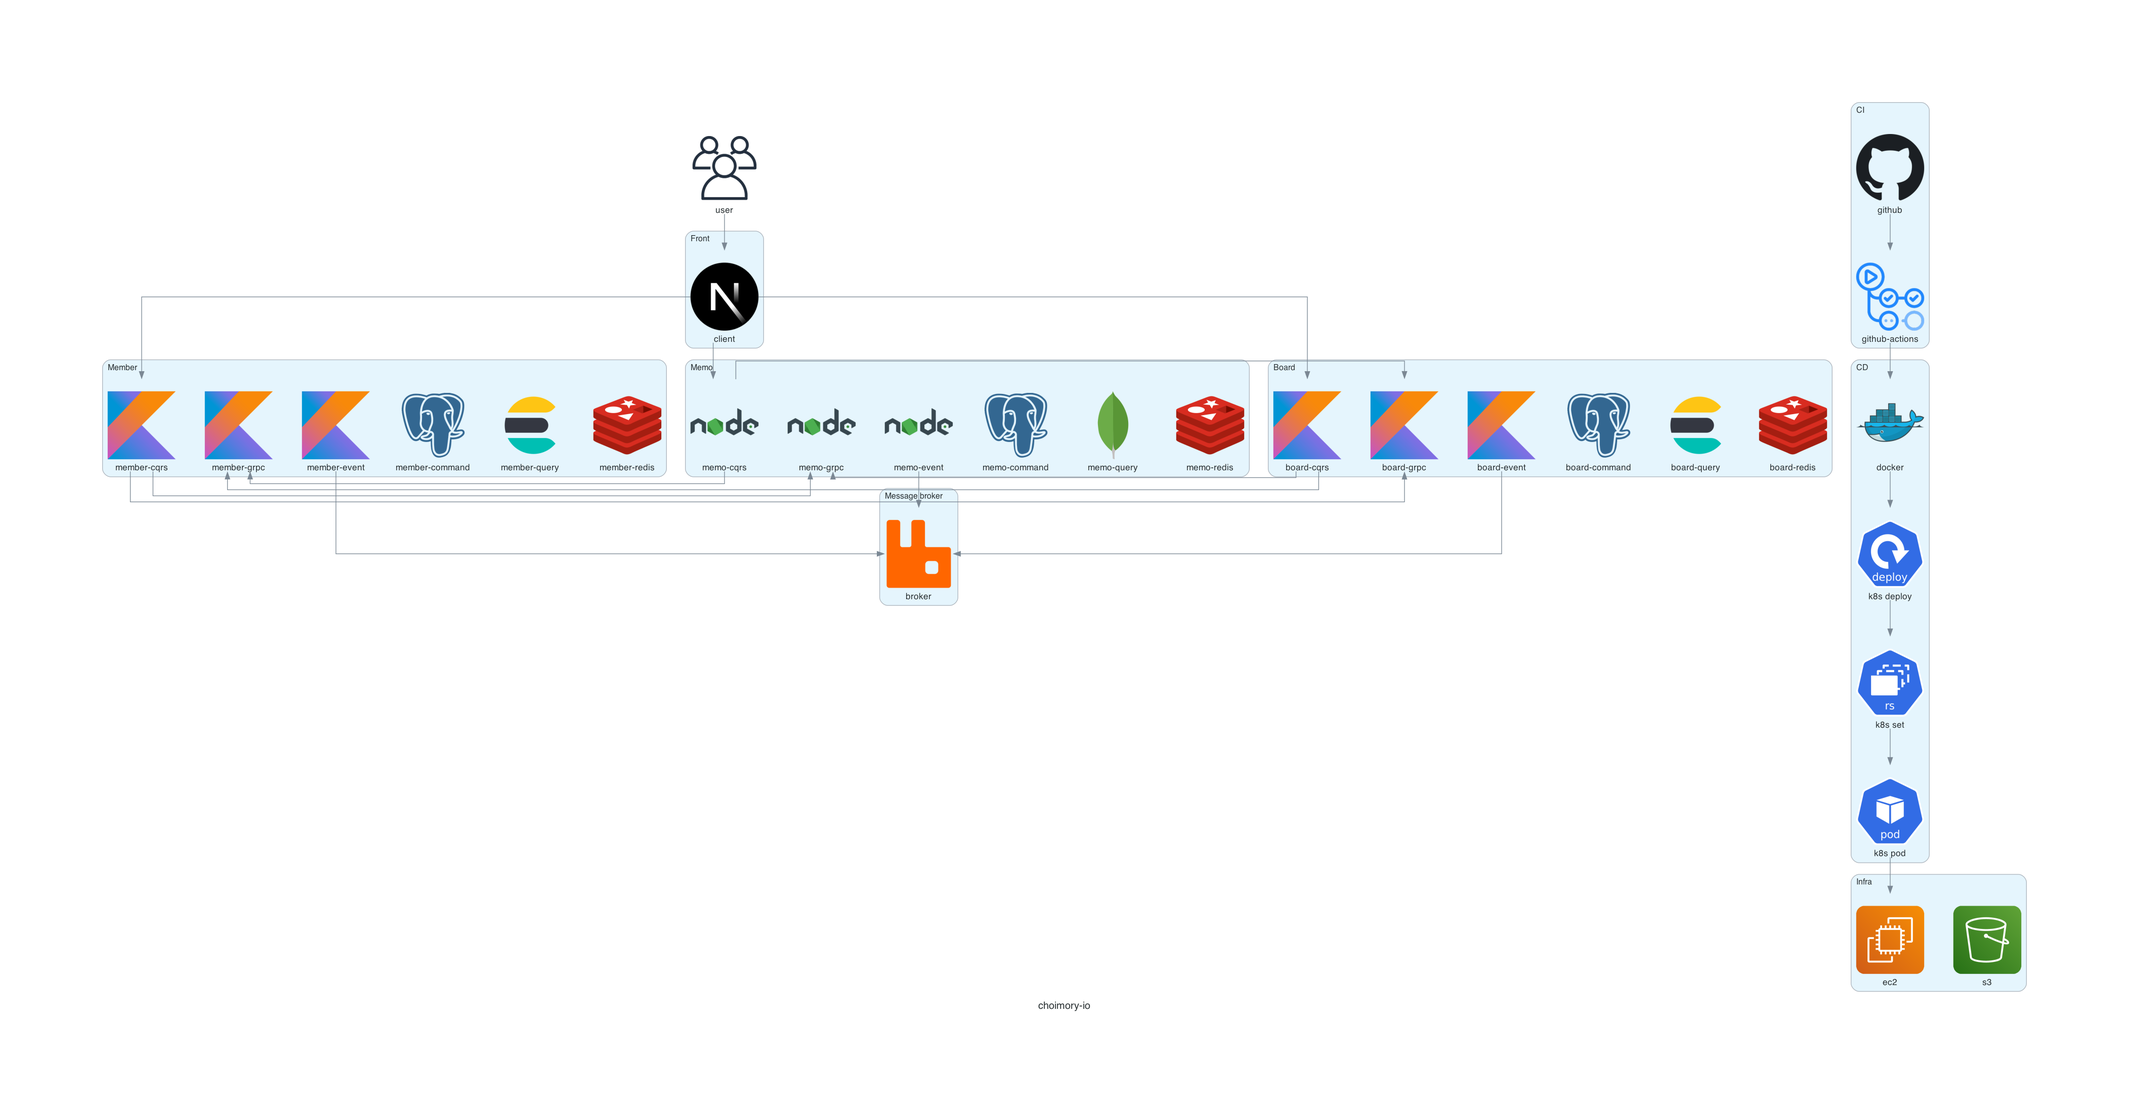
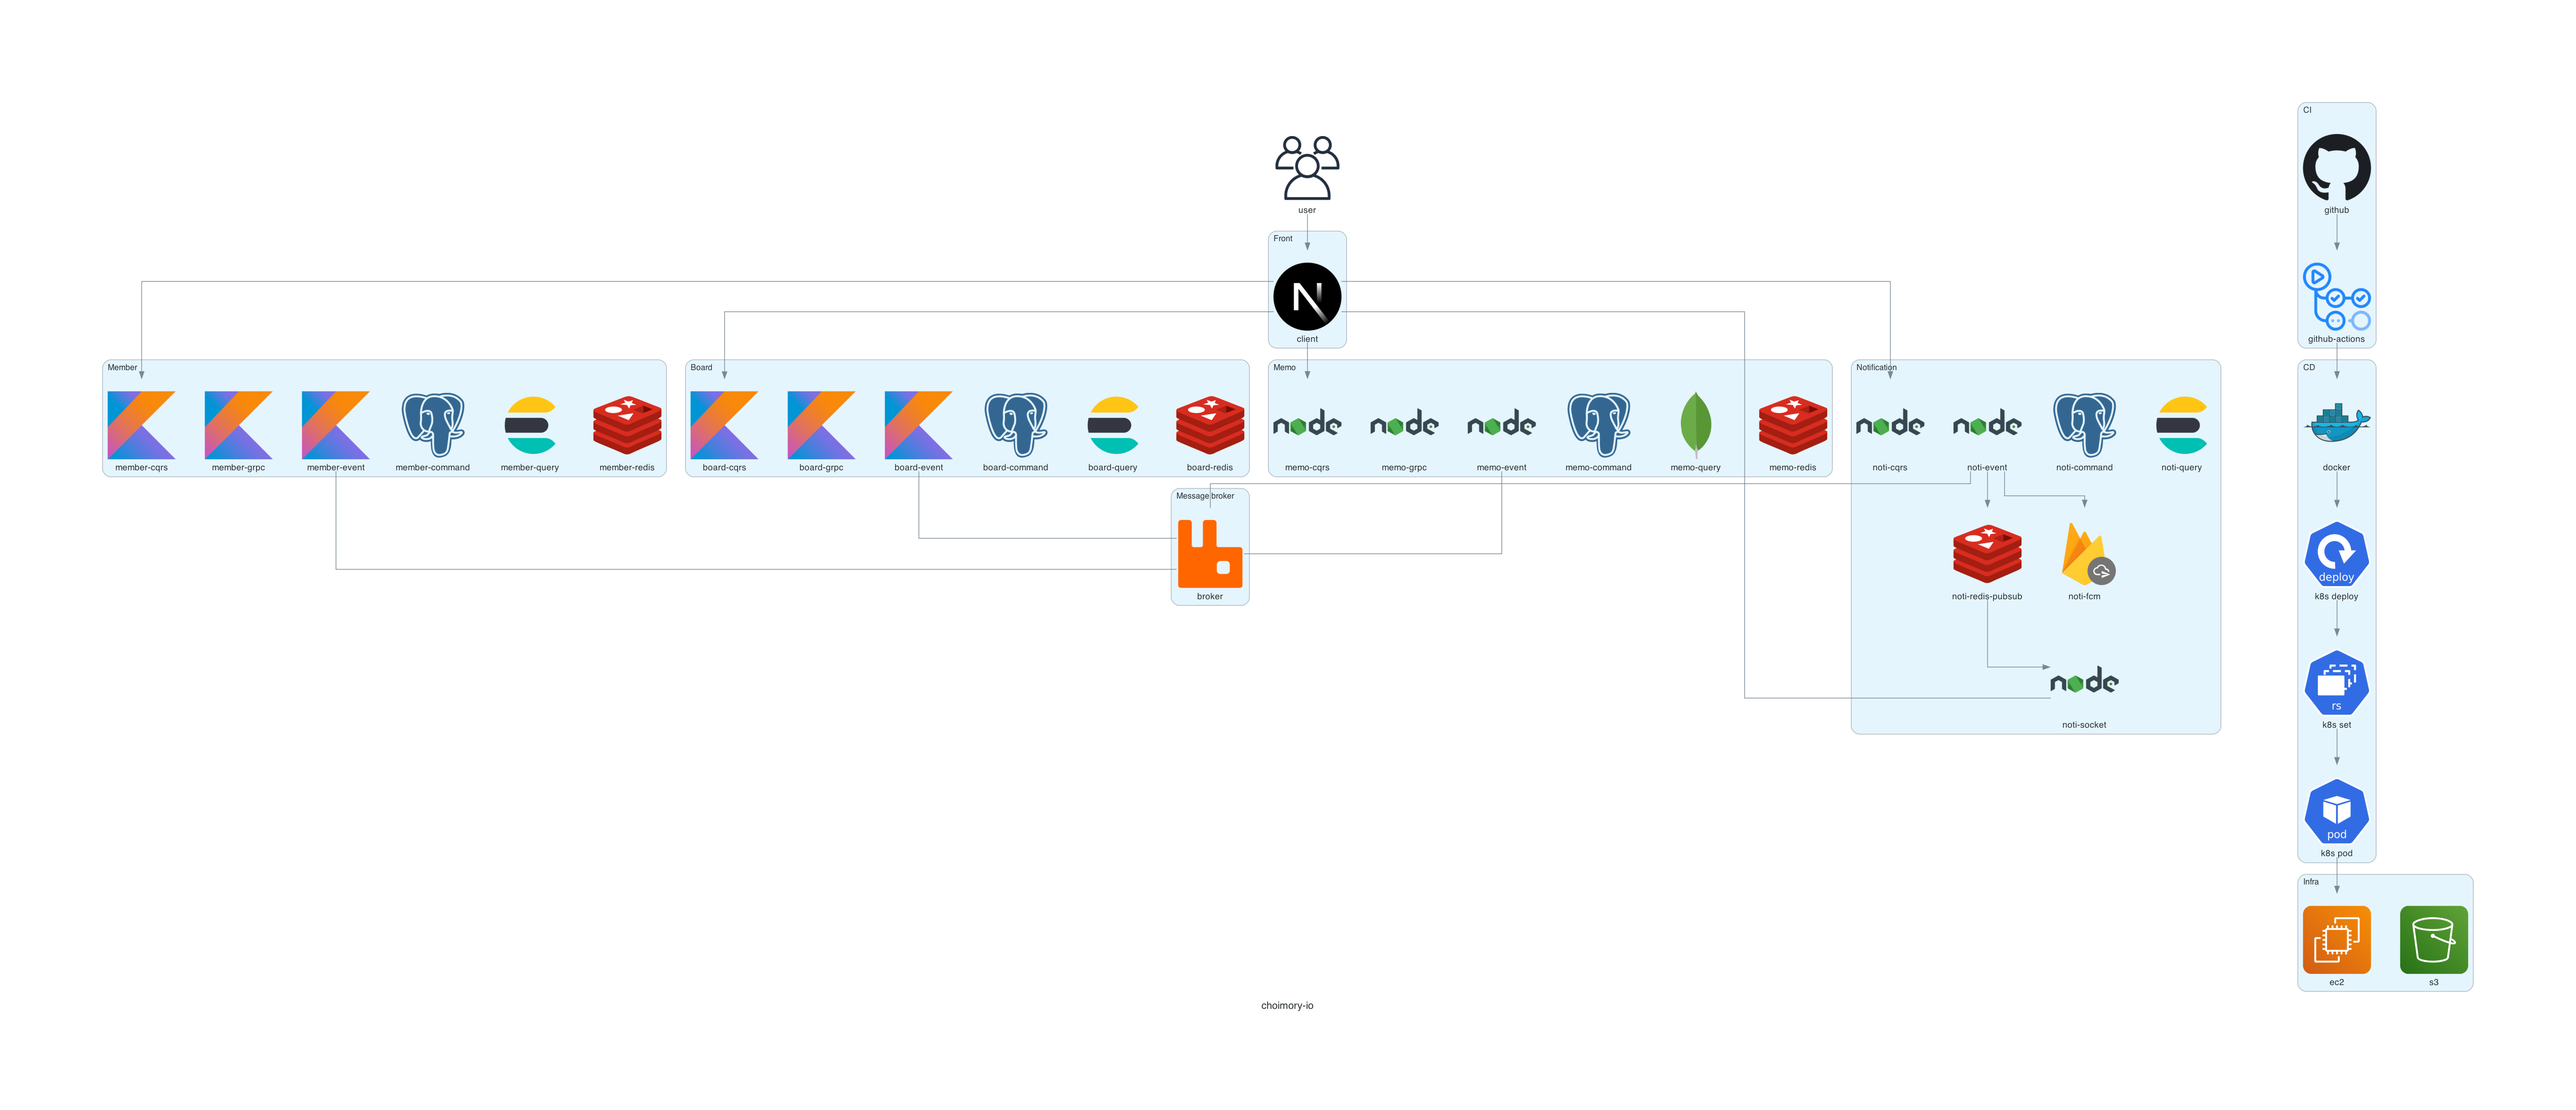
fix: 구조수정

Changed region(s): [[0.0311, 0.0929, 0.9651, 0.8984]]

diff --git a/choimory-io-architect.py b/choimory-io-architect.py
@@ -12,7 +12,7 @@ from diagrams.aws.compute import EC2
 from diagrams.aws.storage import S3
 from diagrams.elastic.elasticsearch import Elasticsearch
 from diagrams.onprem.inmemory import Redis
-
+from diagrams.firebase.grow import FCM
 
 with Diagram("choimory-io", direction="TB"):
     user = Users("user")
@@ -31,19 +31,6 @@ with Diagram("choimory-io", direction="TB"):
         member_redis = Redis("member-redis")
         
         front >> member_cqrs
-
-    with Cluster("Memo"):
-        memo_cqrs = Nodejs("memo-cqrs")
-        memo_grpc = Nodejs("memo-grpc")
-        memo_event = Nodejs("memo-event")
-
-        memo_command = Postgresql("memo-command")
-        memo_query = MongoDB("memo-query")
-        memo_redis = Redis("memo-redis")
-
-        front >> memo_cqrs
-        memo_cqrs >> member_grpc
-        member_cqrs >> memo_grpc
     
     with Cluster("Board"):
         board_cqrs = Kotlin("board-cqrs")
@@ -55,17 +42,40 @@ with Diagram("choimory-io", direction="TB"):
         board_redis = Redis("board-redis")
 
         front >> board_cqrs
-        member_cqrs >> board_grpc
-        memo_cqrs >> board_grpc
-        board_cqrs >> member_grpc
-        board_cqrs >> memo_grpc
+
+    with Cluster("Memo"):
+        memo_cqrs = Nodejs("memo-cqrs")
+        memo_grpc = Nodejs("memo-grpc")
+        memo_event = Nodejs("memo-event")
+
+        memo_command = Postgresql("memo-command")
+        memo_query = MongoDB("memo-query")
+        memo_redis = Redis("memo-redis")
+
+        front >> memo_cqrs
+
+    with Cluster("Notification"):
+        noti_cqrs = Nodejs("noti-cqrs")
+        noti_socket = Nodejs("noti-socket")
+        noti_event = Nodejs("noti-event")
+
+        noti_command = Postgresql("noti-command")
+        noti_query = Elasticsearch("noti-query")
+        noti_redis = Redis("noti-redis-pubsub")
+        noti_fcm = FCM("noti-fcm")
+
+        front >> noti_cqrs
+        front - noti_socket
+        noti_event >> noti_redis >> noti_socket
+        noti_event >> noti_fcm
 
     with Cluster("Message broker"):
         broker = Rabbitmq("broker")
-        
-        member_event >> broker
-        memo_event >> broker
-        board_event >> broker
+
+        memo_event - broker
+        board_event - broker
+        member_event - broker
+        noti_event - broker
 
     with Cluster("CI"):
         github = Github("github")
